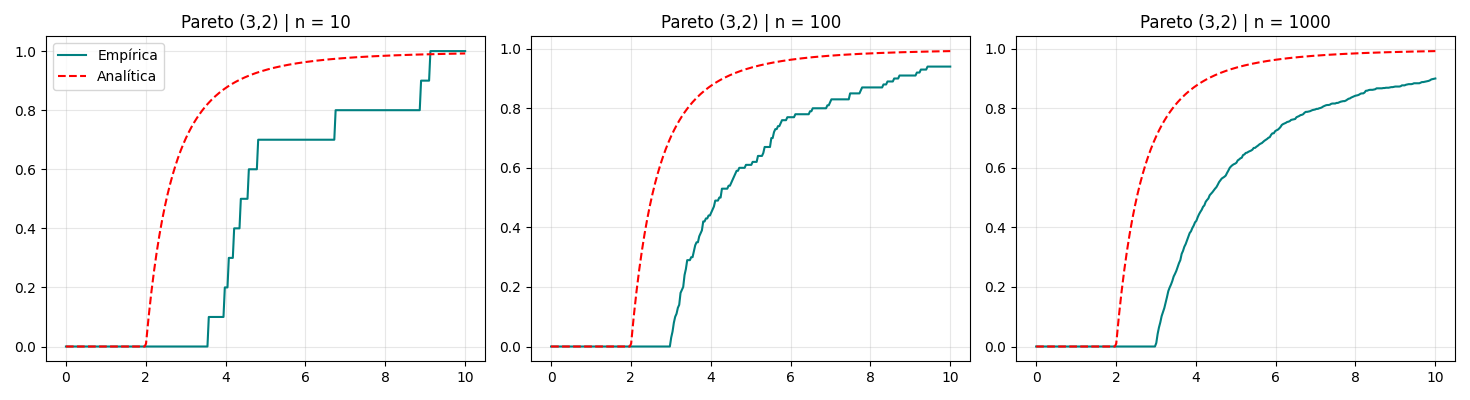
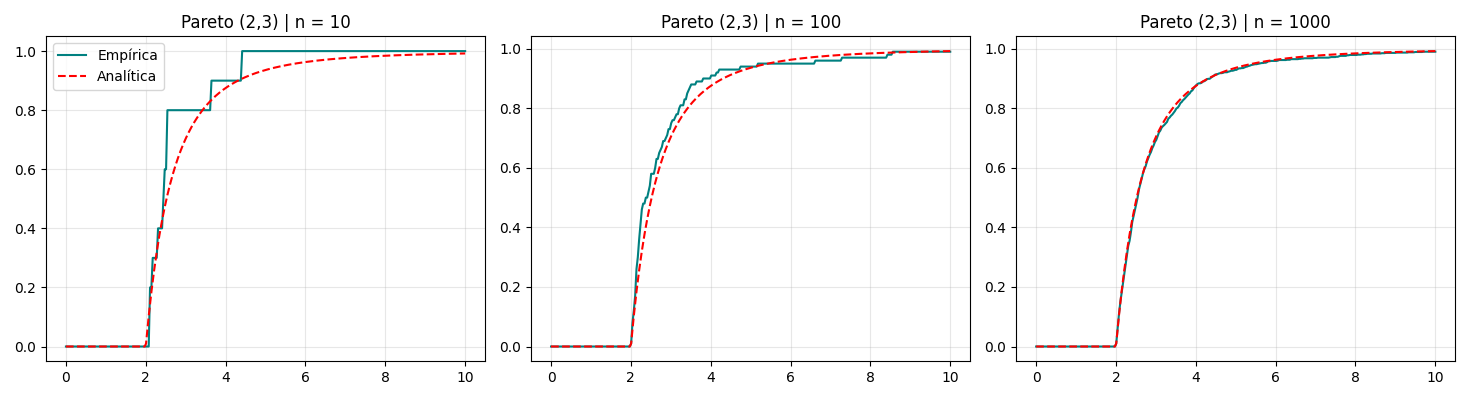
fix: un parametro estaba mal

diff --git a/pt1/p12_teo_central/main.py b/pt1/p12_teo_central/main.py
@@ -76,7 +76,7 @@ def sim_teo_Glivenko_Cantelli():
 
     plt.figure(figsize=(15, 4)) # Crea la tercera ventana
     for i, n in enumerate(tamanos):
-        X_pareto = [dt.pareto(3, 2) for _ in range(n)]
+        X_pareto = [dt.pareto(2, 3) for _ in range(n)]
         t_pareto = np.linspace(0, 10, 300)
         
         y_emp = [FDe(X_pareto, t) for t in t_pareto]
@@ -85,7 +85,7 @@ def sim_teo_Glivenko_Cantelli():
         plt.subplot(1, 3, i + 1)
         plt.plot(t_pareto, y_emp, color="teal", label="Empírica")
         plt.plot(t_pareto, y_ana, color="red", linestyle="--", label="Analítica")
-        plt.title(f"Pareto (3,2) | n = {n}")
+        plt.title(f"Pareto (2,3) | n = {n}")
         plt.grid(True, alpha=0.3)
         if i == 0: plt.legend()
     plt.tight_layout()
